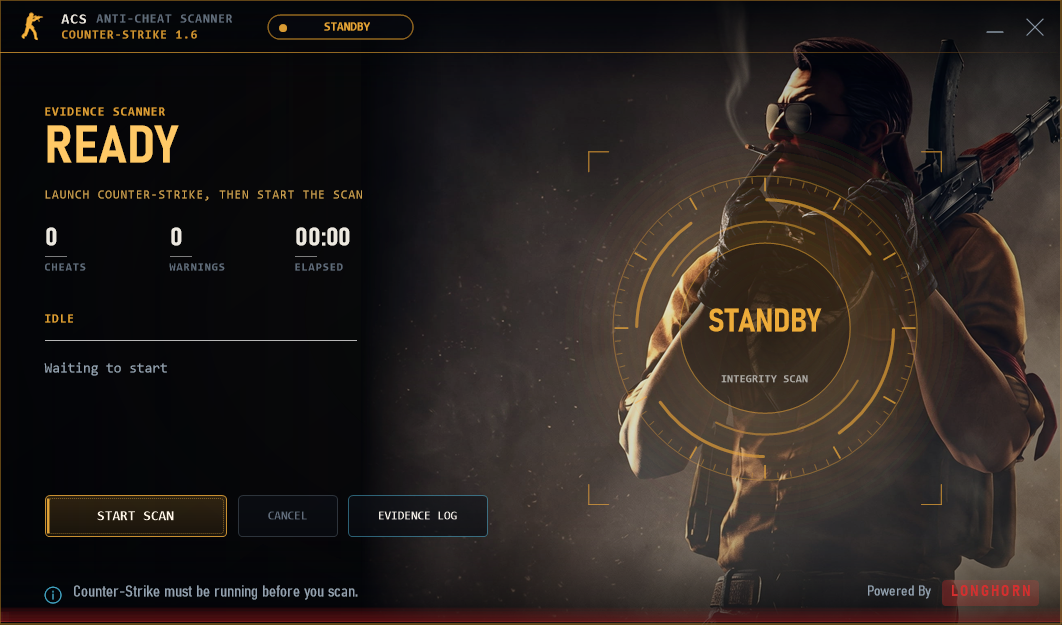
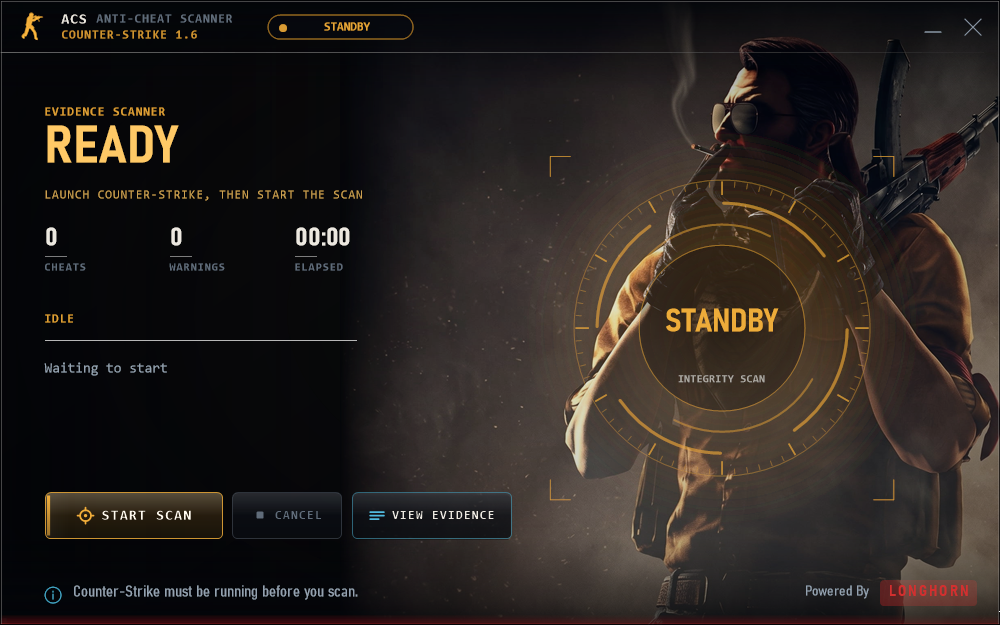
Add numbered scanner releases, fix admin-rights docs, tidy repo
- tools/release_scanner.ps1 cuts a release from committed code: bumps the
  version, publishes, checks version and upload token, writes version.txt
  and a checksum, commits and tags.
- The Download page takes its version from windows/release/version.txt,
  since the .csproj is not deployed; no more hardcoded "v1.0".
- DOWNLOAD.md and CHANGELOG no longer claim the app needs administrator
  rights; the manifest is asInvoker.
- windows/oldproject/ (extracted third-party anti-cheat) is ignored; the
  stray "--nologo" screenshot replaces the outdated docs/img/app-idle.png.

diff --git a/download.php b/download.php
@@ -59,8 +59,8 @@ $displaySize = $targetFile !== null ? round(filesize($targetFile) / (1024 * 1024
 <head>
     <meta charset="utf-8">
     <meta name="viewport" content="width=device-width, initial-scale=1">
-    <title>Download ACS Desktop Scanner v1.0 — Official Forensic Suite for Counter-Strike 1.6</title>
-    <meta name="description" content="ACS Desktop Scanner v1.0 — a free cheat scanner for Counter-Strike 1.6. Reads-only, safe, no install. Ask suspicious players to run a scan and verify their report on our website.">
+    <title>Download ACS Desktop Scanner v<?= htmlspecialchars(acs_release_version(), ENT_QUOTES) ?> — Official Forensic Suite for Counter-Strike 1.6</title>
+    <meta name="description" content="ACS Desktop Scanner v<?= htmlspecialchars(acs_release_version(), ENT_QUOTES) ?> — a free cheat scanner for Counter-Strike 1.6. Reads-only, safe, no install. Ask suspicious players to run a scan and verify their report on our website.">
     <link rel="stylesheet" href="assets/theme.css">
     <?php uds_theme_head(); ?>
     <link rel="stylesheet" href="assets/acp.css?v=<?= filemtime(__DIR__ . '/assets/acp.css') ?>">
@@ -1161,7 +1161,7 @@ $displaySize = $targetFile !== null ? round(filesize($targetFile) / (1024 * 1024
                     <span class="dl-badge-sep">/</span>
                     <span class="dl-badge-channel">v<?= htmlspecialchars(acs_release_version(), ENT_QUOTES) ?> STABLE</span>
                 </div>
-                <h1>ACS Desktop Scanner <em>v1.0</em></h1>
+                <h1>ACS Desktop Scanner <em>v<?= htmlspecialchars(acs_release_version(), ENT_QUOTES) ?></em></h1>
                 <div class="dl-hero-sub">Counter-Strike 1.6 Anti-Cheat Forensic Suite</div>
                 <p class="dl-hero-lead">
                     A lightweight forensic cheat scanner engineered specifically for Counter-Strike 1.6. It performs non-invasive memory and filesystem verification to detect unauthorized hooks, injected DLLs, and aim/trigger/ESP modifications in real time. It operates <em>read-only</em> during live gameplay — zero driver requirements, zero system modifications, and zero game alteration. Reports are cryptographically signed with HMAC-SHA256 and verified instantly via web telemetry.
@@ -1248,7 +1248,7 @@ $displaySize = $targetFile !== null ? round(filesize($targetFile) / (1024 * 1024
     <div style="margin-bottom: var(--sp-3);">
         <span style="font-family: var(--f-mono); font-size: 11px; letter-spacing: 1.5px; color: #f0ad3a; text-transform: uppercase; font-weight: 700;">Diagnostic Console Simulation</span>
         <h2 style="font-family: var(--f-display); font-size: 26px; font-weight: 700; text-transform: uppercase; margin: 4px 0 6px; color: var(--text);">
-            ACS Desktop App v1.0 — Live Interactive Terminal
+            ACS Desktop App v<?= htmlspecialchars(acs_release_version(), ENT_QUOTES) ?> — Live Interactive Terminal
         </h2>
         <p style="color: var(--muted); font-size: 14px; margin: 0 0 var(--sp-4);">
             Experience the internal diagnostics and HUD telemetry of the Windows client. Run real-time simulation sequences to evaluate clean match scans, offline configuration warnings, or active memory detours.

diff --git a/config.php b/config.php
@@ -627,10 +627,17 @@ function acs_release_version(): string
 {
     static $version = null;
     if ($version === null) {
+        // tools/release_scanner.ps1 writes the version beside the exe it describes. The .csproj
+        // is not deployed, so on a live server this file is the only place the version exists.
+        $released = @file_get_contents(__DIR__ . '/windows/release/version.txt');
         $project = @file_get_contents(__DIR__ . '/windows/ACPScanner.csproj');
-        $version = (is_string($project) && preg_match('#<Version>\s*([0-9A-Za-z.+-]+)\s*</Version>#', $project, $m))
-            ? $m[1]
-            : '1.0.0';
+        if (is_string($released) && preg_match('#^\s*([0-9][0-9A-Za-z.+-]*)\s*$#', $released, $m)) {
+            $version = $m[1];
+        } elseif (is_string($project) && preg_match('#<Version>\s*([0-9A-Za-z.+-]+)\s*</Version>#', $project, $m)) {
+            $version = $m[1];
+        } else {
+            $version = '1.0.0';
+        }
     }
     return $version;
 }

diff --git a/docs/DOWNLOAD.md b/docs/DOWNLOAD.md
@@ -9,7 +9,7 @@
 | OS | Windows 10 / 11 — 32-bit or 64-bit |
 | Game | Counter-Strike 1.6 (`hl.exe` / `cstrike.exe`) |
 | Runtime | .NET (bundled in the self-contained build) |
-| Rights | Administrator (Windows asks when the app starts; needed to identify the joined server from live traffic) |
+| Rights | Standard user — no administrator prompt. Running as administrator is optional and gives deeper memory evidence. |
 | Server | A reachable ACS web deployment (`api.php`) |
 
 ## Install
@@ -49,7 +49,17 @@ dotnet restore windows/ACPScanner.csproj
 dotnet publish windows/ACPScanner.csproj -c Release
 ```
 
-Output is a single executable in `windows/release/`. The optional kernel helper in `windows/acpdriver/` is a reference scaffold and needs the WDK + a signed certificate before it can be built or loaded.
+Output is a single executable in `windows/release/`. That is fine for testing, but never hand players a build like this: every rebuild is a new file, and SmartScreen starts its reputation from zero for each one.
+
+To ship to players, cut a numbered release from committed code:
+
+```powershell
+powershell -ExecutionPolicy Bypass -File tools/release_scanner.ps1 -Version 1.0.1
+```
+
+It refuses uncommitted changes under `windows/` and versions that are not higher than the current one, bumps the version in `ACPScanner.csproj`, publishes, checks the exe carries that version and an upload token, writes `windows/release/version.txt` and a `.sha256` file, then commits and tags `v1.0.1`. Upload `ACPScanner.exe` together with `version.txt` — the Download page reads the version from that file.
+
+The optional kernel helper in `windows/acpdriver/` is a reference scaffold and needs the WDK + a signed certificate before it can be built or loaded.
 
 ## Troubleshooting
 

diff --git a/CHANGELOG.md b/CHANGELOG.md
@@ -16,7 +16,7 @@ First release. The desktop app is a single self-contained executable that runs o
 - Client and engine identity read from the running game: retail Steam is reported only when `hl.exe` and `hw.dll` are validly signed by Valve and no emulator loads Steam from the game folder; non-Steam editions are named; the engine build date is read from the engine binary.
 - Signature status per module (valid / not signed / modified / untrusted), so a Valve-signed engine patched by a non-Steam edition is recorded as modified rather than reported as a forged signature.
 - Build fingerprint (SHA-256 prefix of the executable) in every report and on the report page.
-- The connected game server is identified from the game's live UDP traffic at scan time (exact IP:Port, or No Server Detected); the app runs as administrator for this.
+- The connected game server is identified at scan time from the game process and Valve A2S server queries (exact IP:Port, or No Server Detected), with standard user rights — no administrator prompt.
 - Engine build number and version read exactly from the engine (for example build 4554, v1.1.2.6).
 - Redesigned desktop interface, privacy screen and evidence log.
 - Artifact corpus with prevalence across distinct machines; automatic clean classification for common signed binaries.

diff --git a/docs/DEPLOYMENT.md b/docs/DEPLOYMENT.md
@@ -87,3 +87,12 @@ Only `DETECTED` + high-confidence signatures are emitted, using `MISSING` rules.
 1. Back up `reports/` and `database/`.
 2. Replace the web files.
 3. Reload `index.php`; the report index and corpus migrate themselves.
+
+### Releasing a new scanner build
+
+Players should only ever download numbered releases, and the same file for weeks — SmartScreen reputation is tied to the exact file, so every rebuild starts from zero.
+
+1. Commit the scanner changes.
+2. `powershell -ExecutionPolicy Bypass -File tools/release_scanner.ps1 -Version X.Y.Z`
+3. Add the release to `CHANGELOG.md`.
+4. Upload `windows/release/ACPScanner.exe` **and** `windows/release/version.txt` together.
